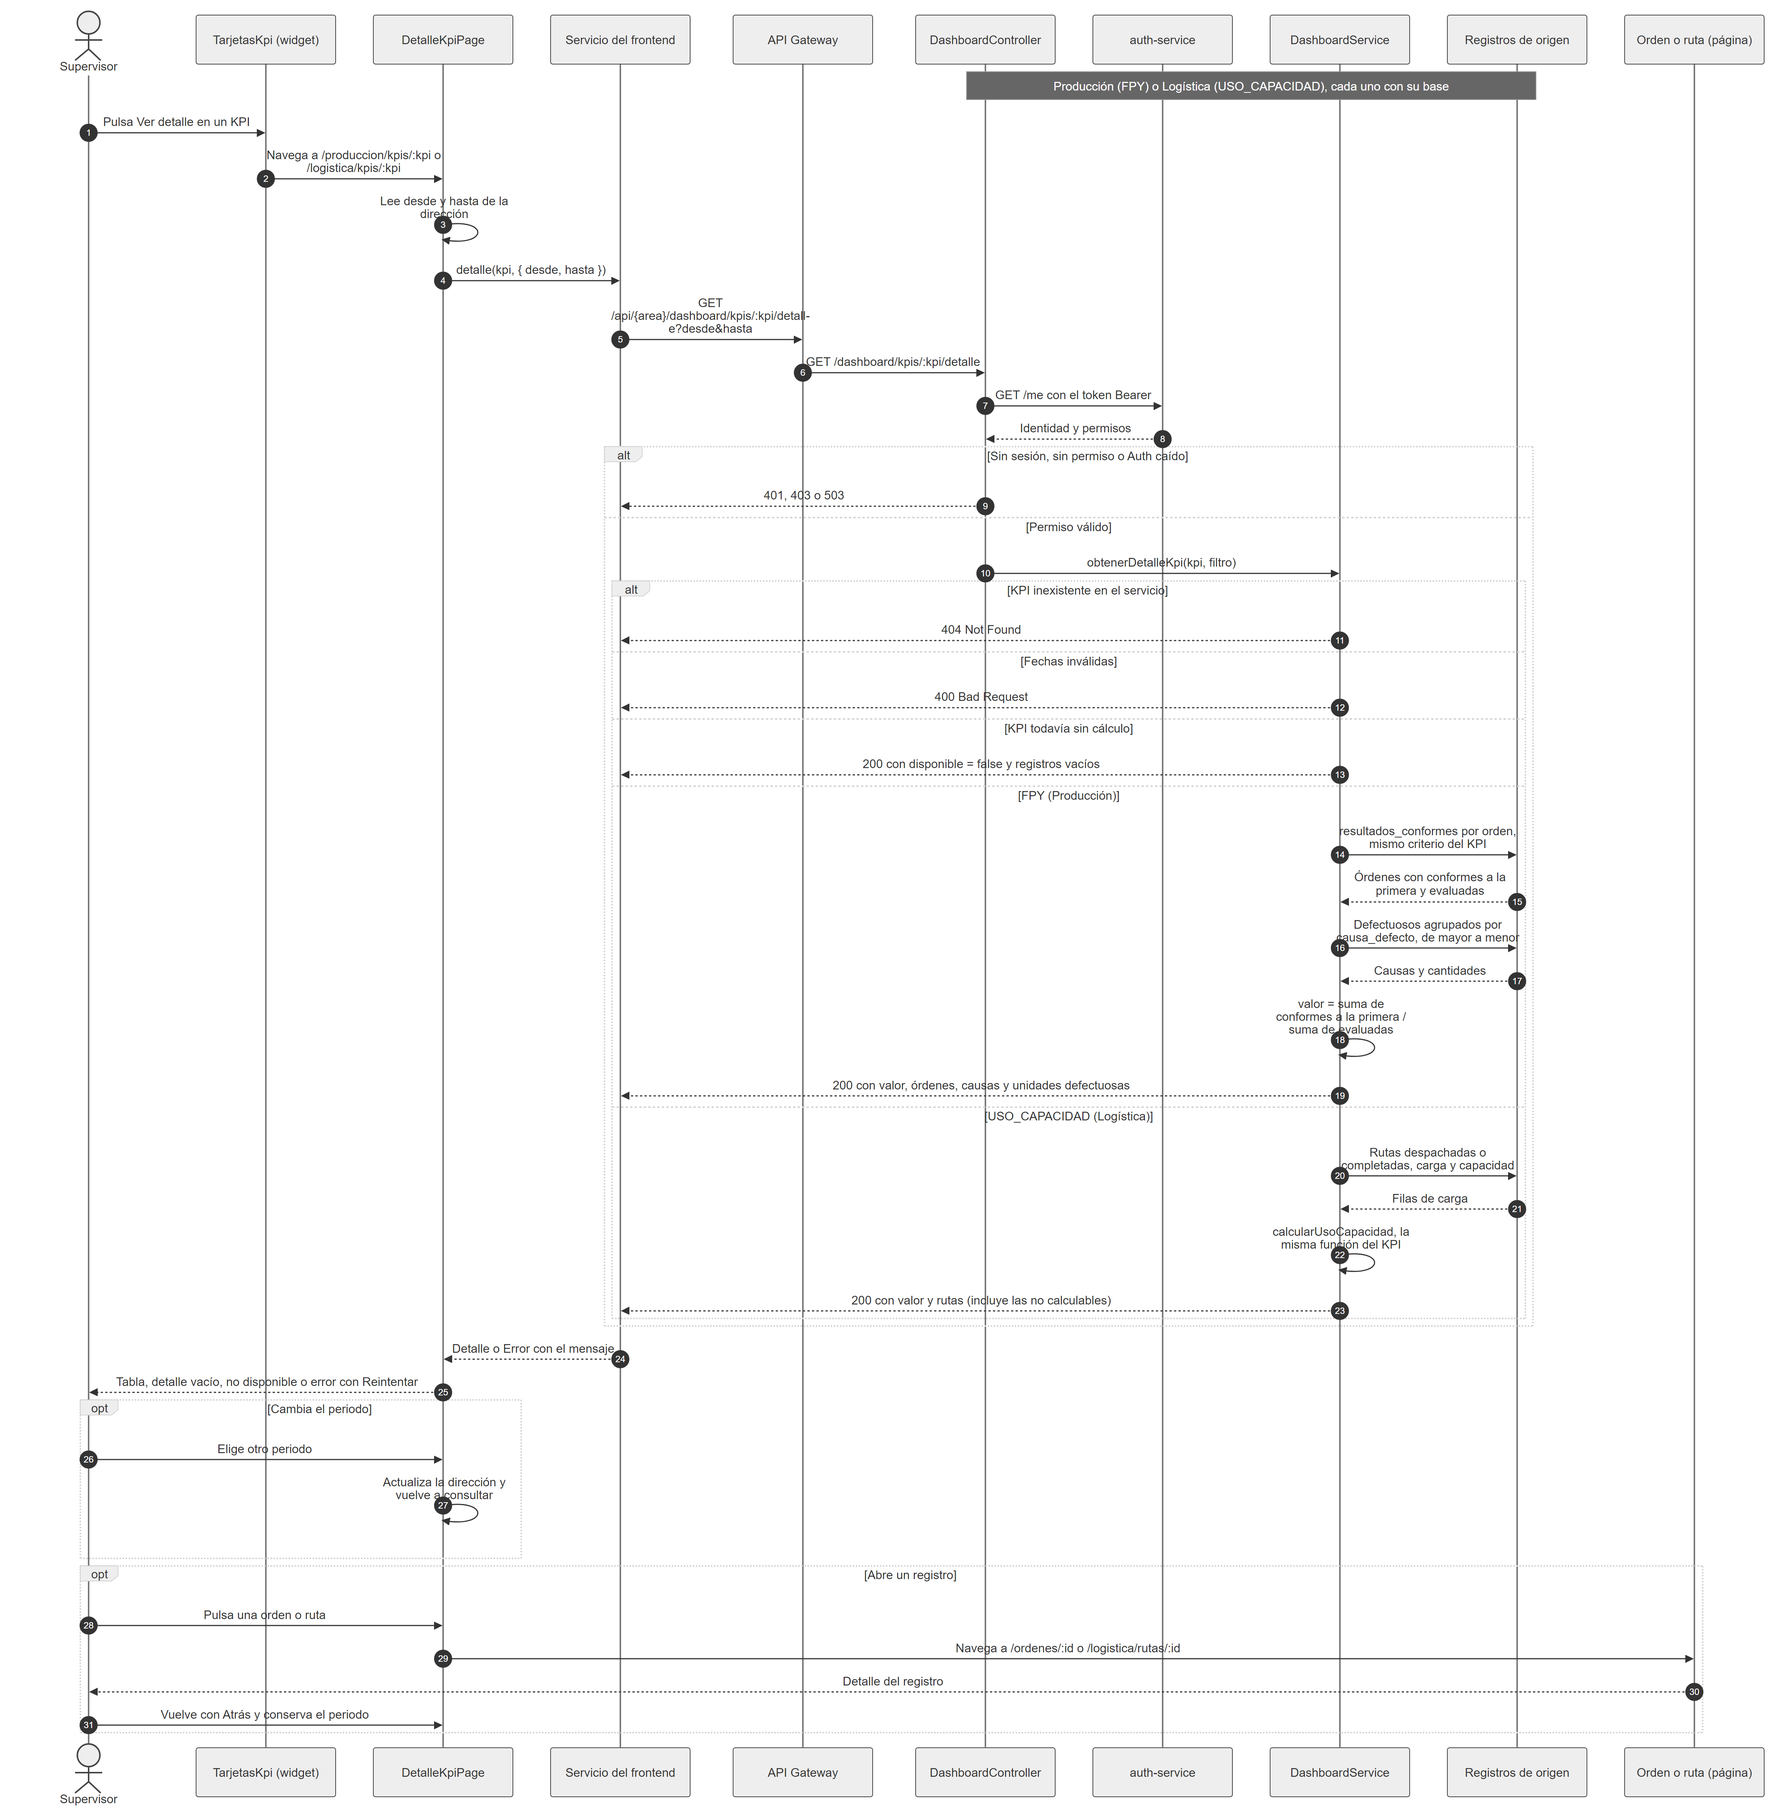
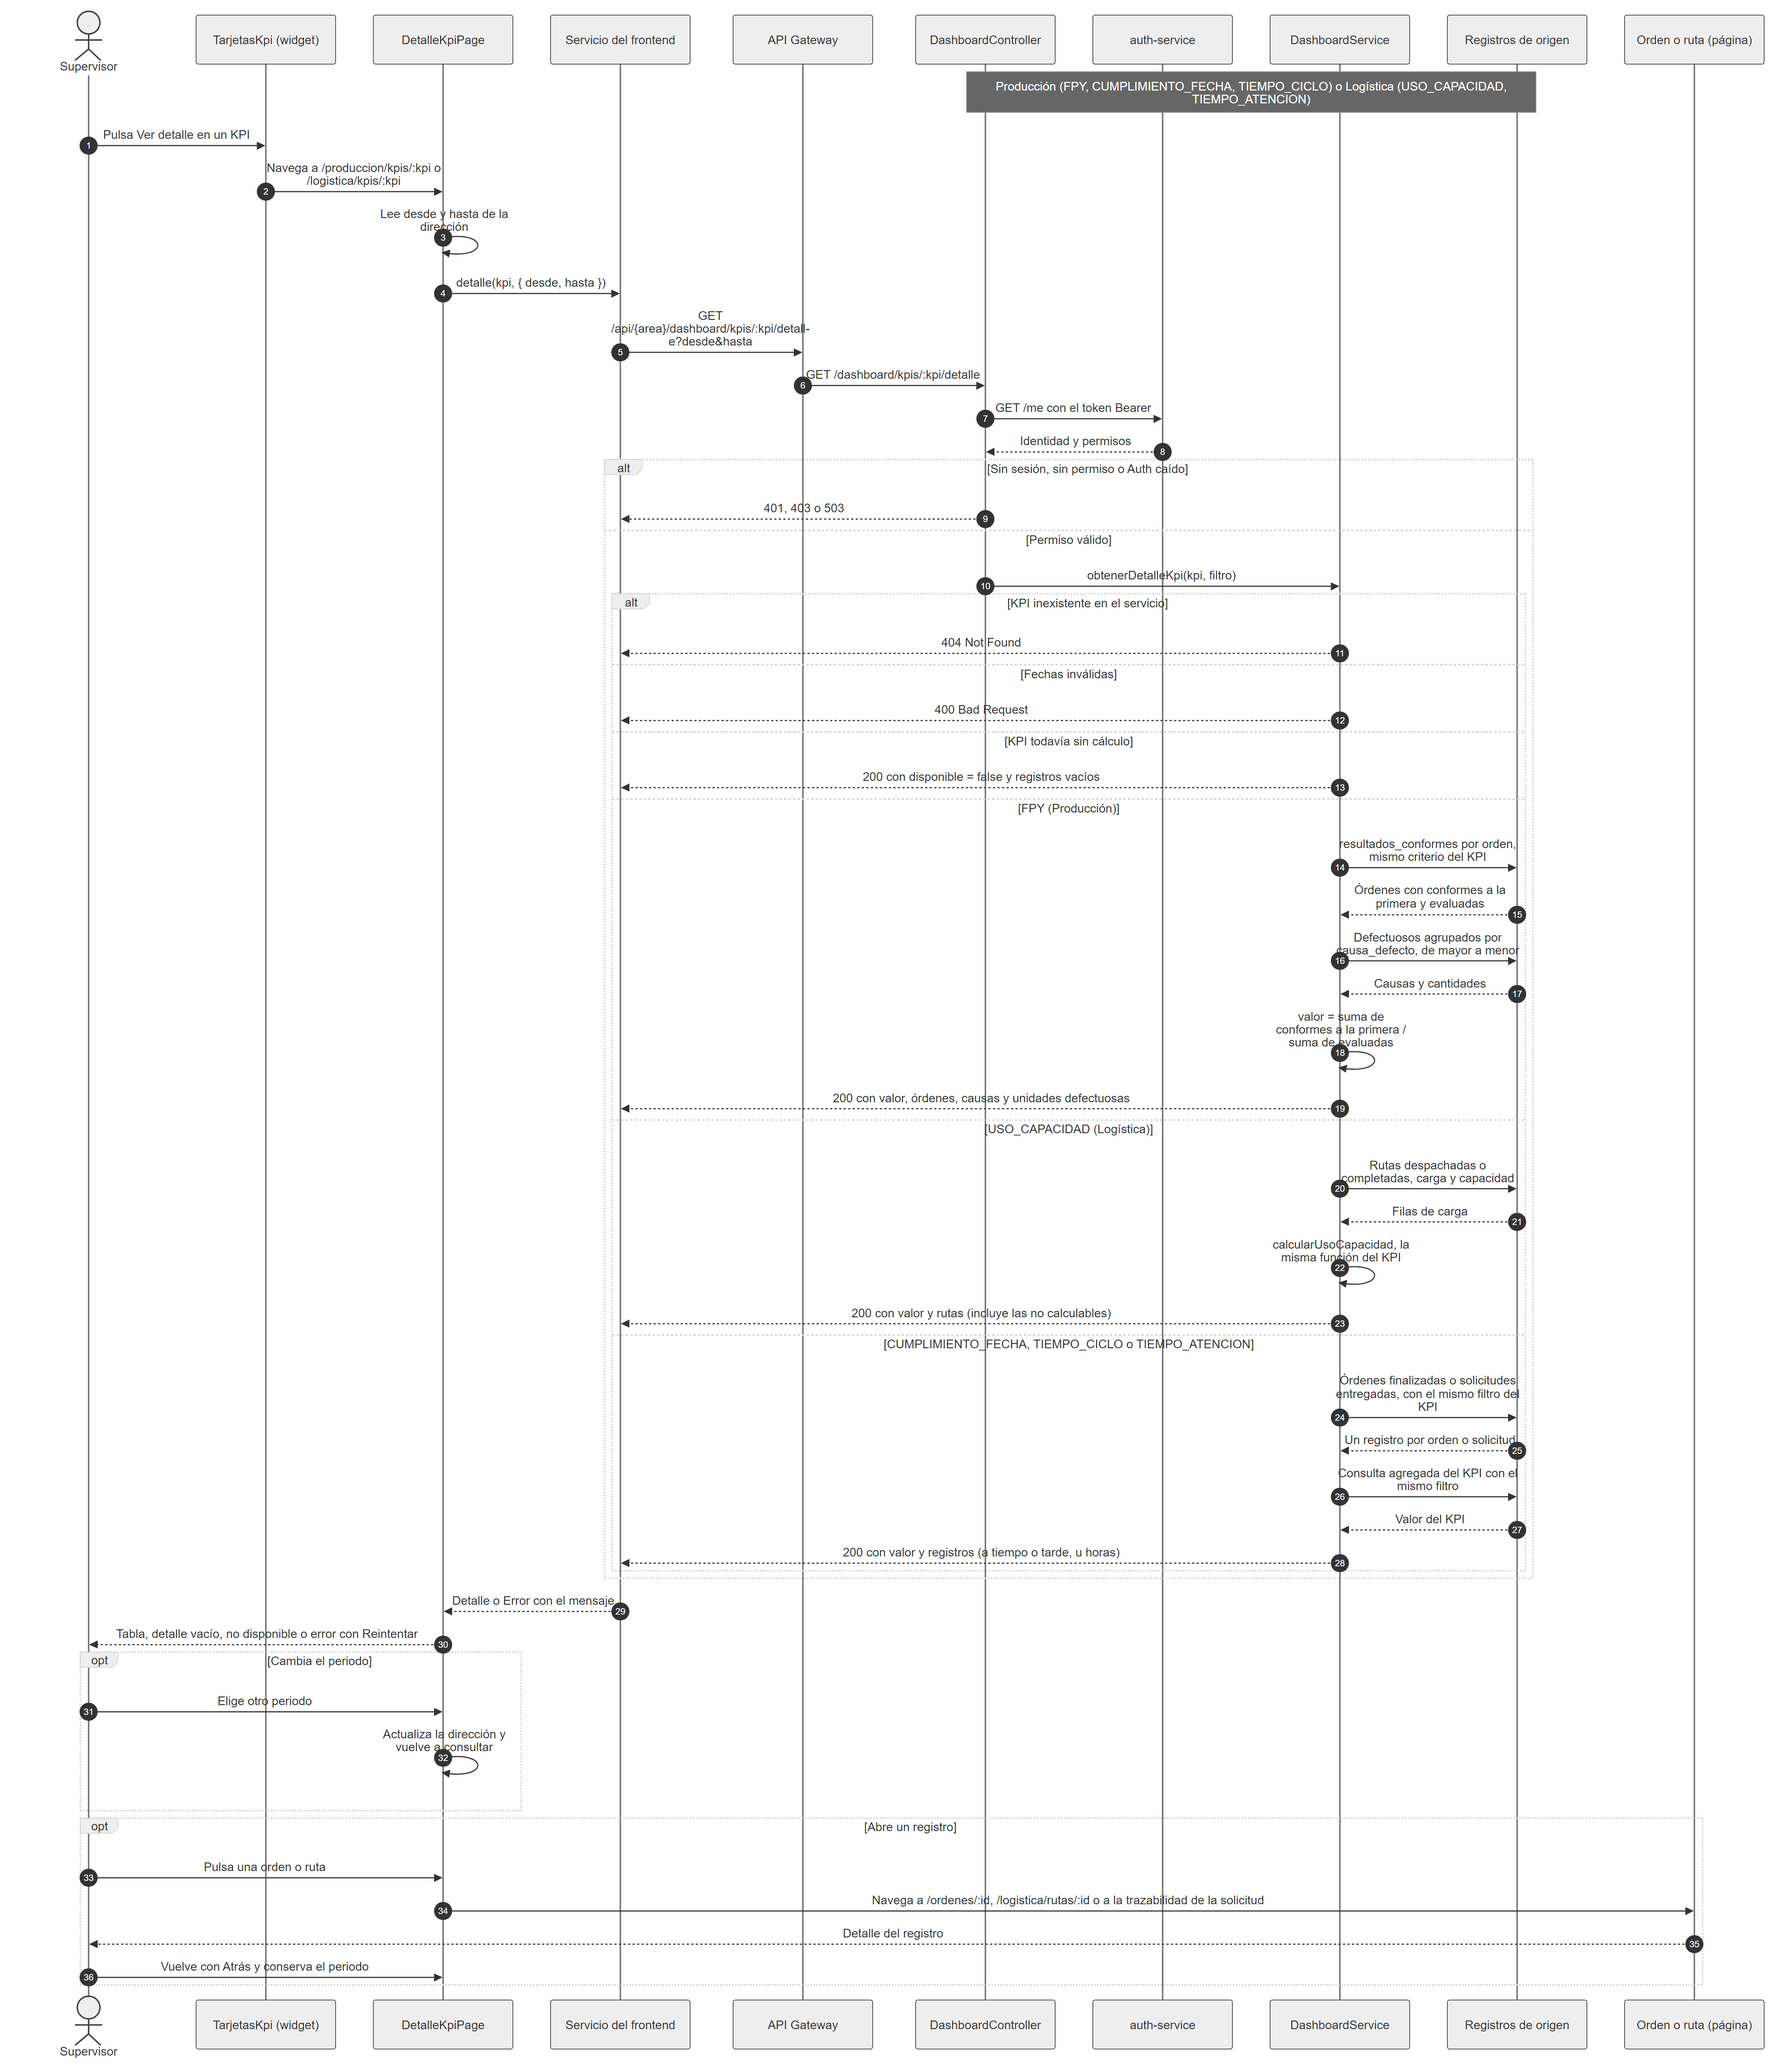
docs(ABC-514): incluir los KPIs nuevos en el diagrama del detalle

diff --git a/docs/diagramas/sprint-4/secuencia/detalle-kpi.md b/docs/diagramas/sprint-4/secuencia/detalle-kpi.md
@@ -4,9 +4,9 @@ Apertura del detalle de un KPI y navegación hacia la orden o ruta. Subtarea **A
 
 ## Alcance
 
-- Con detalle hoy: **FPY** y **USO_CAPACIDAD**, los únicos KPIs con cálculo. Los otros seis responden `disponible: false` hasta que exista su cálculo; cada uno se conecta en `obtenerDetalleKpi`.
+- Con detalle hoy: **FPY**, **CUMPLIMIENTO_FECHA** y **TIEMPO_CICLO** (Producción); **USO_CAPACIDAD** y **TIEMPO_ATENCION** (Logística). **MERMA**, **ENTREGAS_A_TIEMPO** e **INCIDENCIAS_RUTA** responden `disponible: false` hasta que exista su cálculo; cada uno se conecta en `obtenerDetalleKpi`.
 - Las tarjetas muestran el valor de todo el historial, igual que el semáforo, y abren el detalle sin periodo. El detalle admite `?desde&hasta` en la dirección.
-- El detalle usa el mismo criterio que el KPI (`COLUMNAS_FPY` y `calcularUsoCapacidad`), por eso el valor coincide.
+- El detalle usa el mismo criterio que el KPI (`COLUMNAS_FPY`, `filtroCumplimientoFecha`, `filtroTiempoCiclo`, `calcularUsoCapacidad` y `CTE_SOLICITUDES_ENTREGADAS`), por eso el valor coincide.
 
 ## Diagrama
 
@@ -23,7 +23,7 @@ sequenceDiagram
     participant V as DashboardService
     participant R as Registros de origen
     participant O as Orden o ruta (página)
-    Note over C,R: Producción (FPY) o Logística (USO_CAPACIDAD), cada uno con su base
+    Note over C,R: Producción (FPY, CUMPLIMIENTO_FECHA, TIEMPO_CICLO) o Logística (USO_CAPACIDAD, TIEMPO_ATENCION)
 
     S->>W: Pulsa Ver detalle en un KPI
     W->>D: Navega a /produccion/kpis/:kpi o /logistica/kpis/:kpi
@@ -55,6 +55,12 @@ sequenceDiagram
             R-->>V: Filas de carga
             V->>V: calcularUsoCapacidad, la misma función del KPI
             V-->>F: 200 con valor y rutas (incluye las no calculables)
+        else CUMPLIMIENTO_FECHA, TIEMPO_CICLO o TIEMPO_ATENCION
+            V->>R: Órdenes finalizadas o solicitudes entregadas, con el mismo filtro del KPI
+            R-->>V: Un registro por orden o solicitud
+            V->>R: Consulta agregada del KPI con el mismo filtro
+            R-->>V: Valor del KPI
+            V-->>F: 200 con valor y registros (a tiempo o tarde, u horas)
         end
     end
     F-->>D: Detalle o Error con el mensaje
@@ -65,7 +71,7 @@ sequenceDiagram
     end
     opt Abre un registro
         S->>D: Pulsa una orden o ruta
-        D->>O: Navega a /ordenes/:id o /logistica/rutas/:id
+        D->>O: Navega a /ordenes/:id, /logistica/rutas/:id o a la trazabilidad de la solicitud
         O-->>S: Detalle del registro
         S->>D: Vuelve con Atrás y conserva el periodo
     end
